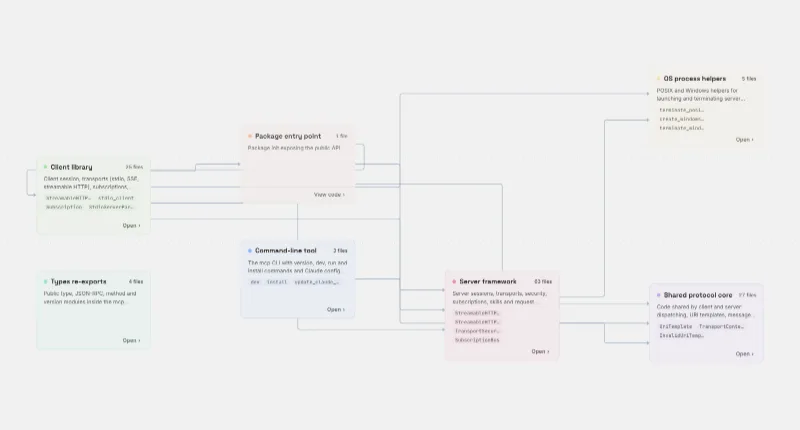
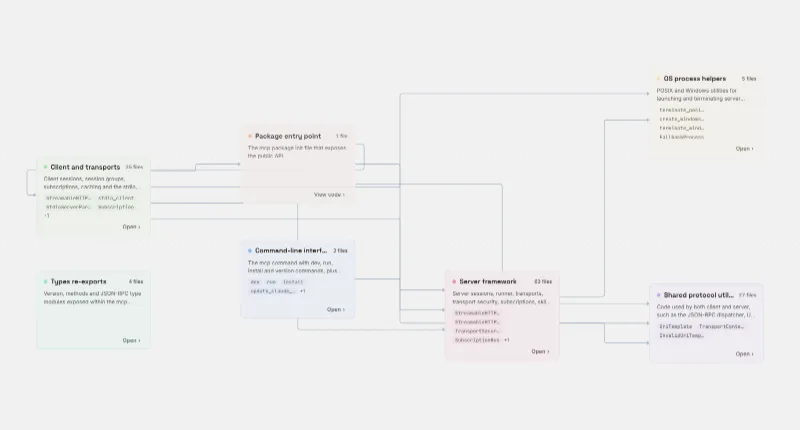
feat(explore): list the Go and Rust batch (gin, tokio, polars, dbt)
Batch 2 now has relations: Go/Rust import resolution (#94) and the
EXTRACTED call and inherit relations (#98). The gallery lists it.

- explore-curated.json: polars and dbt (v2, Rust) entries; gin and tokio
  get house-style EN/KO descriptions and keep their legacy `ref` until
  their new snapshots are uploaded.
- repos.json: depth 4 for tokio, polars and dbt so names reach
  tokio/src/runtime and each crate's src modules.
- exploreService.test.ts: the manifest lists exactly the repos.json
  entries of the live batches (1, 2), so a batch goes live whole.
- Card images redrawn from the snapshots in ~/.cache/ropeman-explore
  (batch 1 from the 5c5334e rebuild, batch 2 from this run).
- ARCH: the pipeline section describes both batches and the depth rule.

diff --git a/src/lib/services/exploreService.test.ts b/src/lib/services/exploreService.test.ts
@@ -506,17 +506,21 @@ describe('getCuratedManifest', () => {
 		for (const e of entries) expect(e.ref, e.slug).toMatch(/^[0-9a-f]{40}$/);
 	});
 
-	// scripts/explore/repos.json says which repository and commit the pipeline maps for a slug
-	it('names the same repository as the snapshot pipeline, and no repository it holds back', () => {
+	// scripts/explore/repos.json says which repository and commit the pipeline maps for a slug.
+	// A batch goes live whole; a later batch can be built and checked before the gallery lists it.
+	it('lists exactly the snapshot pipeline repositories of the live batches', () => {
 		const repos: Record<string, { owner: string; repo: string; batch: number }> = JSON.parse(
 			fs.readFileSync(new URL('../../../scripts/explore/repos.json', import.meta.url), 'utf8')
 		);
-		const legacy = ['transformers', 'fastapi', 'gin', 'react', 'tokio'];
+		const liveBatches = [1, 2];
+		const entries = getCuratedManifest().entries;
 
-		for (const e of getCuratedManifest().entries) {
+		for (const e of entries) {
 			expect(repos[e.slug], e.slug).toMatchObject({ owner: e.owner, repo: e.repo });
-			if (!legacy.includes(e.slug)) expect(repos[e.slug].batch, e.slug).toBe(1);
+			expect(liveBatches, e.slug).toContain(repos[e.slug].batch);
 		}
+		const live = Object.keys(repos).filter((slug) => liveBatches.includes(repos[slug].batch));
+		expect(entries.map((e) => e.slug).sort()).toEqual(live.sort());
 	});
 
 	it('slugs are unique', () => {
